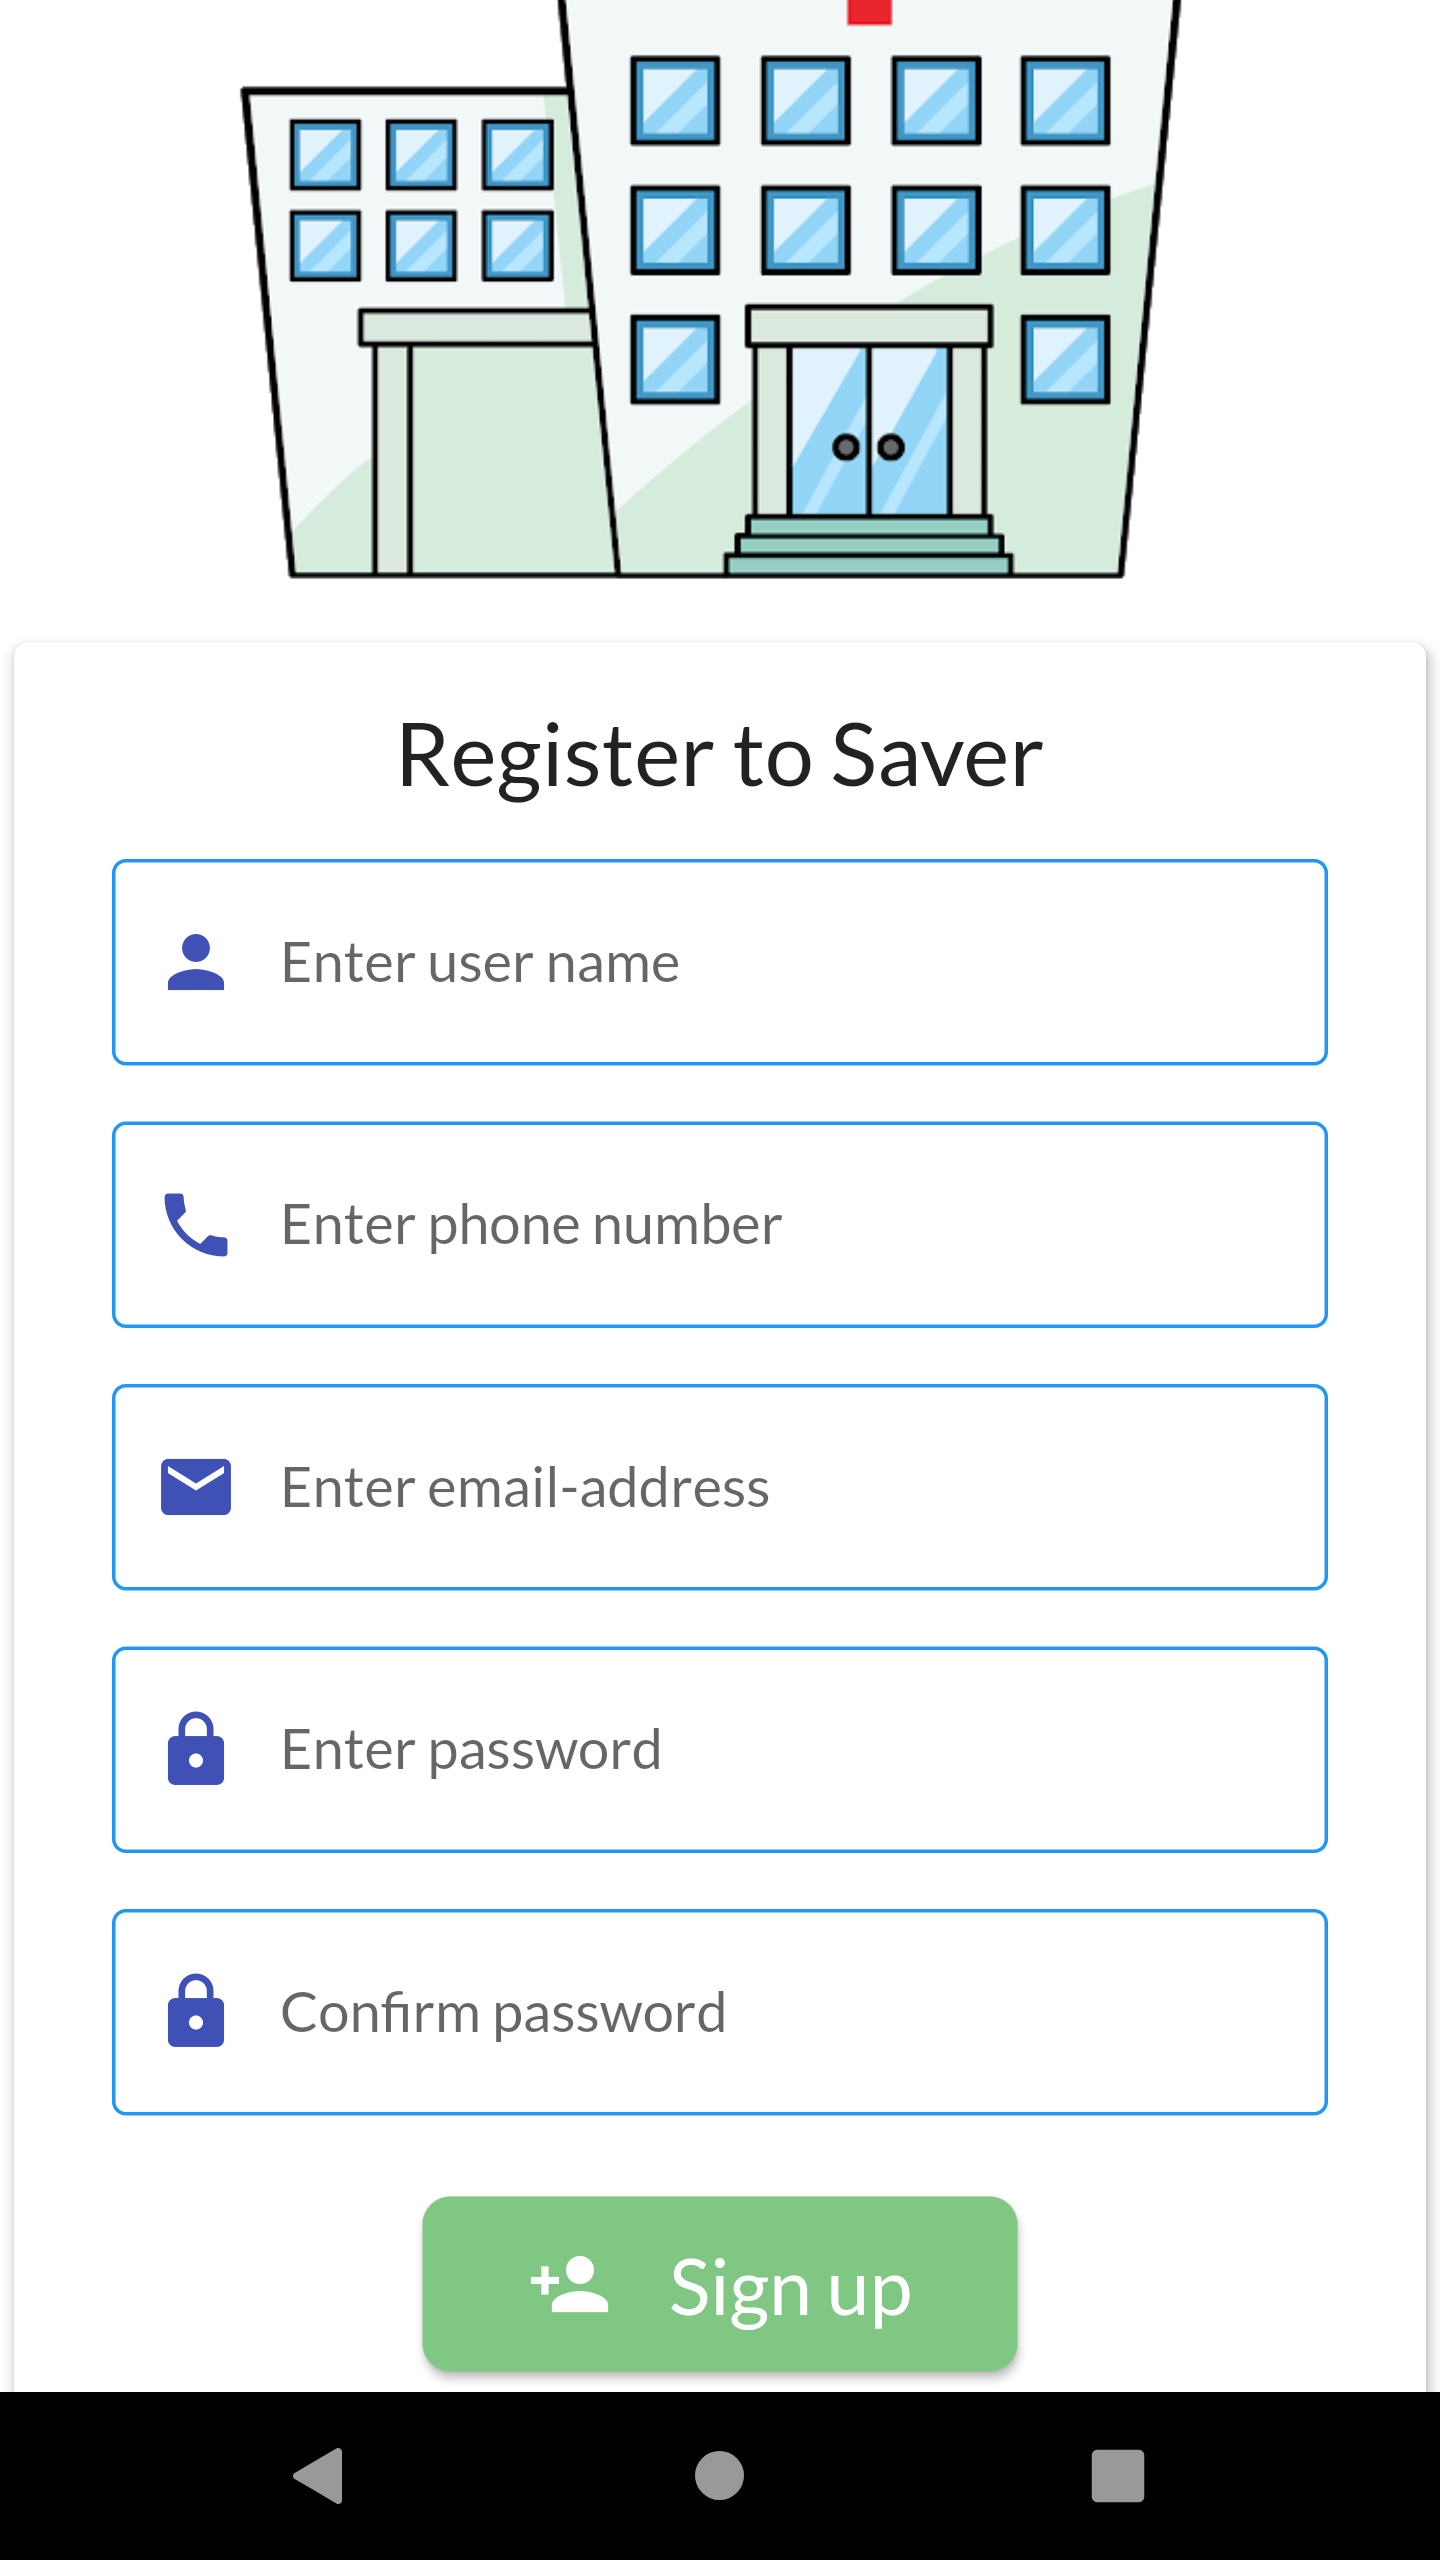
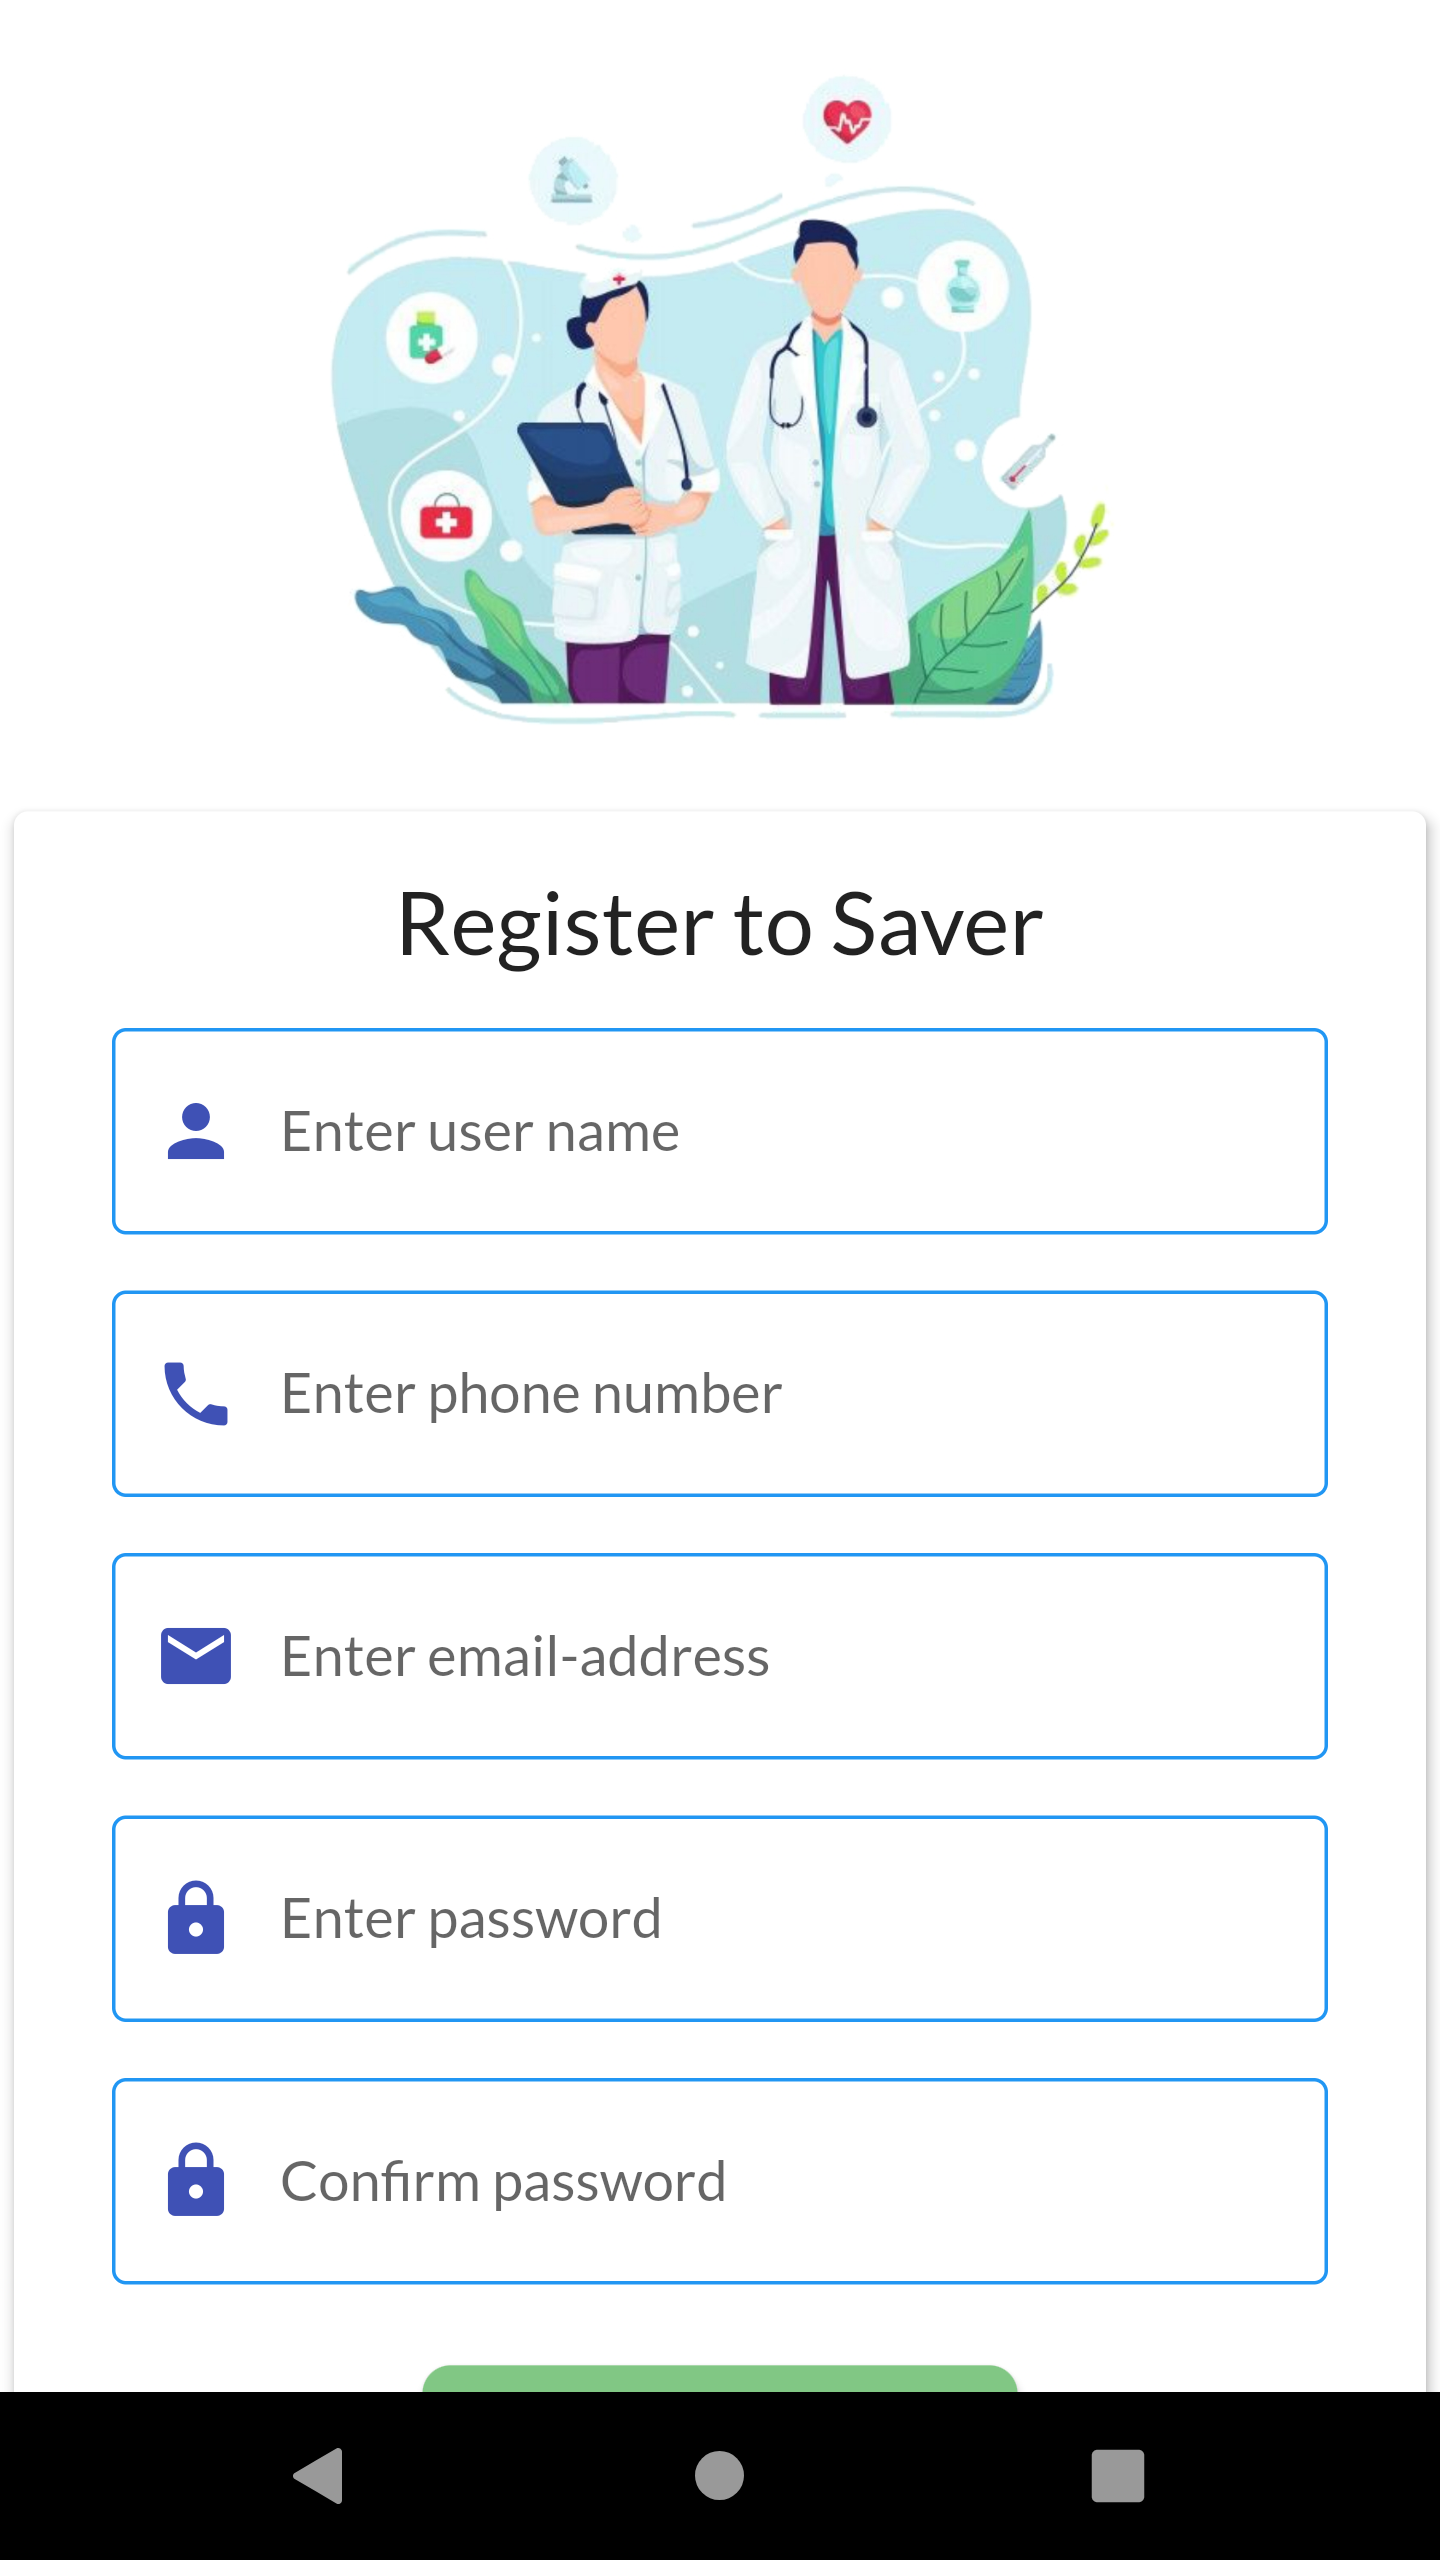
user profile, navigation draw list of hospital, list of doctor Hospital Detail, Doctor Detail show message when pass or email is not correct. medkit and introduction screen, half done Beta Version.
CV for Doctors, direct call or message to hospital and doctor, Type of Hospital, route to Hospital, Hospital image.

Forget Password.

diff --git a/lib/screens/login/email_auth.dart b/lib/screens/login/email_auth.dart
@@ -3,7 +3,6 @@ import 'package:firebase_auth/firebase_auth.dart';
 import 'package:flutter/material.dart';
 import 'package:shared_preferences/shared_preferences.dart';
 import 'package:testapp/screens/loading/onBoarding_screen.dart';
-import 'package:testapp/screens/login/verifyemail_screen.dart';
 
 class EmailRegister extends StatefulWidget {
   @override
@@ -106,7 +105,7 @@ class _EmailRegisterState extends State<EmailRegister> {
           children: <Widget>[
             Container(
               height: MediaQuery.of(context).size.height / 3,
-              child: Image.asset('assets/images/loadingimage.jpg'),
+              child: Image.asset('assets/images/img.jpg'),
             ),
             Form(
               key: _registerFormKey,
